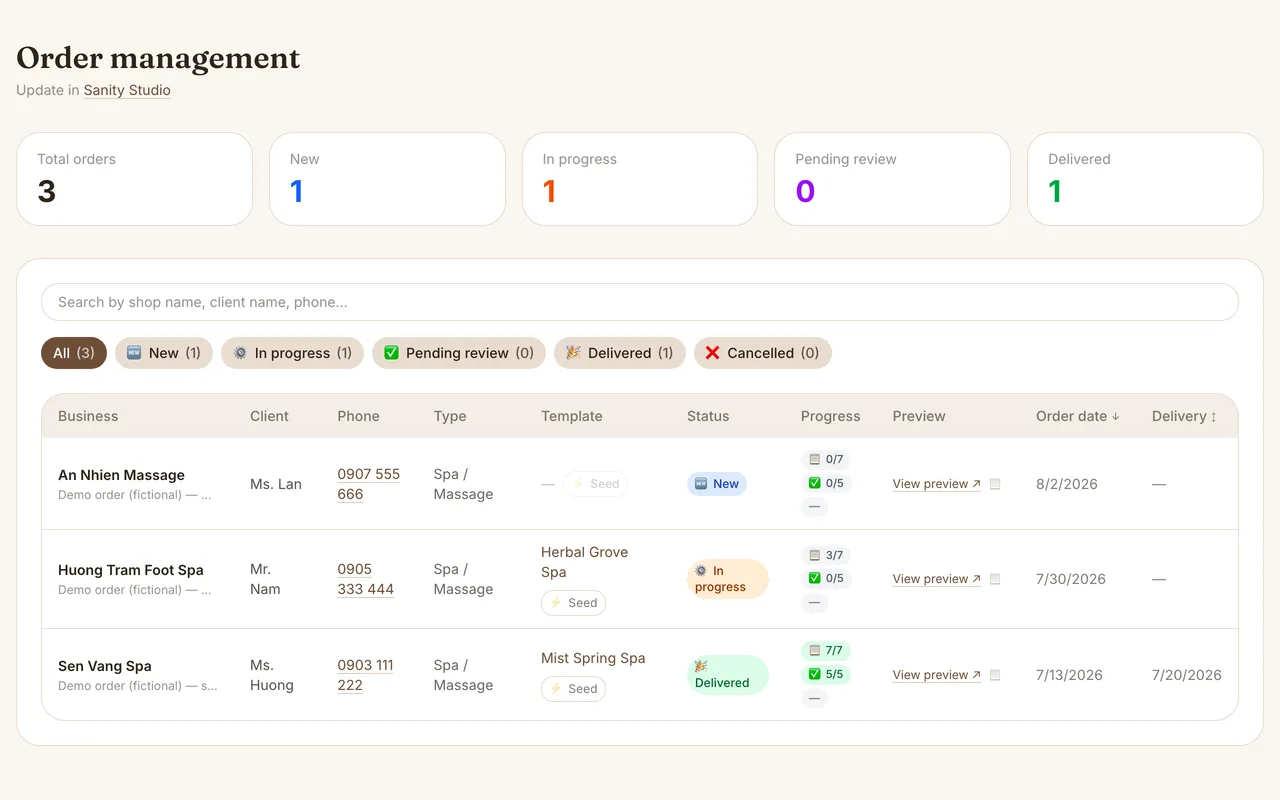
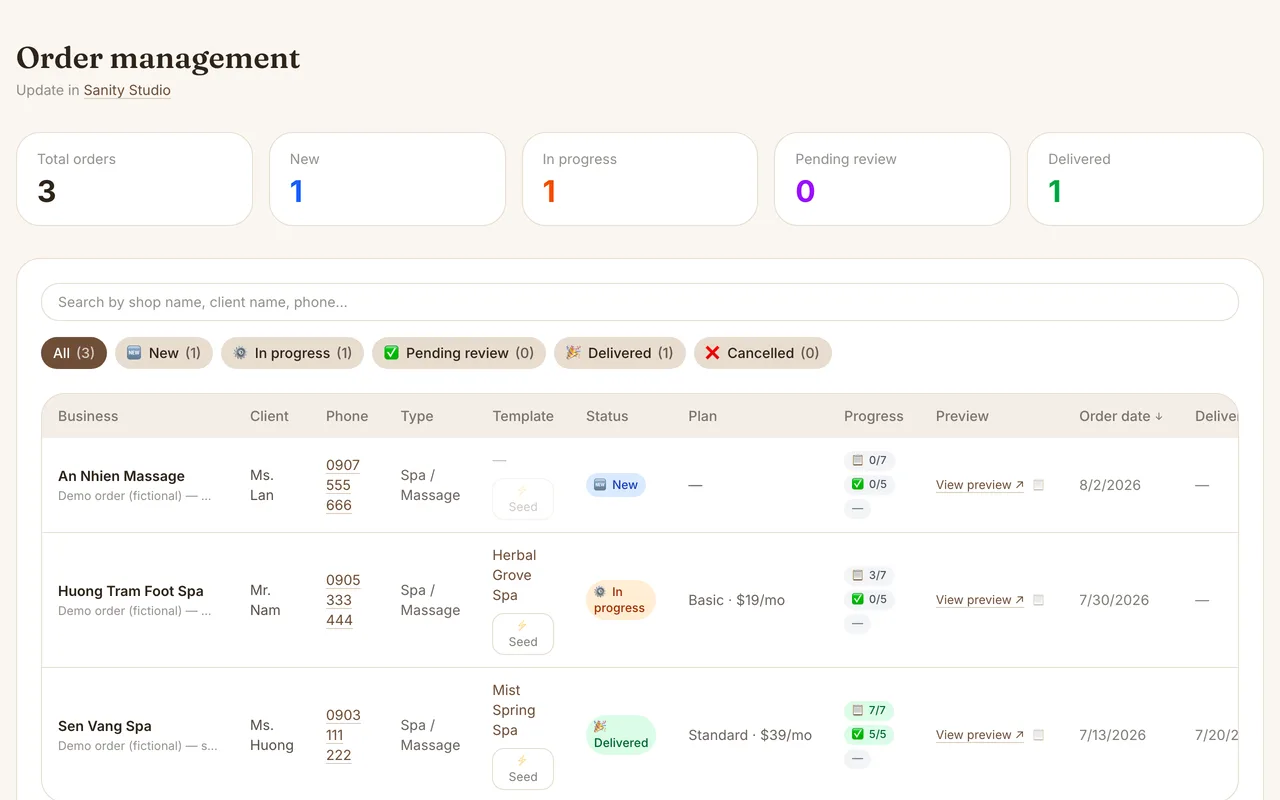
fix: the order form's plans were a third, different price list
The site sells three plans — basic $19, standard $39, pro $59. The
Sanity order schema offered two of its own: "Basic — 399k/month" and
"Premium — 699k/month". A different currency, a different number of
tiers, and a "Premium" that has never existed on the public site. Next
to it, setupFee was labelled in VND and described in terms of the same
two tiers.

Both now come from DEFAULT_PRICING_PLANS through
SERVICE_PLAN_OPTIONS, so the dropdown an operator picks from is
literally built from the list the homepage sells. The Site type's union
follows the plan keys.

servicePlan was also stored, projected by sitesQuery, and rendered
nowhere — the exact dead-field shape earlier audits removed. It is what
the client is billed, so the dashboard gets a Plan column rather than
losing the field.

The seeded demo order used "premium", a value that no longer exists;
it is on standard now. Also drops a comment left dangling in OrderList
when the duplicated industry label map was removed.

diff --git a/src/app/admin/orders/OrderList.tsx b/src/app/admin/orders/OrderList.tsx
@@ -2,6 +2,7 @@
 
 import { useState } from 'react'
 import { Site, OrderStatus, Industry, INDUSTRY_LABEL } from '@/types'
+import { SERVICE_PLAN_LABEL } from '@/lib/pricing'
 
 const STATUS_CONFIG: Record<OrderStatus, { label: string; color: string }> = {
   new:         { label: '🆕 New',           color: 'bg-blue-100 text-blue-800' },
@@ -10,9 +11,6 @@ const STATUS_CONFIG: Record<OrderStatus, { label: string; color: string }> = {
   delivered:   { label: '🎉 Delivered',    color: 'bg-green-100 text-green-800' },
   cancelled:   { label: '❌ Cancelled',    color: 'bg-red-100 text-red-800' },
 }
-
-// Labels come from the shared list so the admin table names a business type
-// exactly as the customer saw it in the order form. These two had drifted.
 
 const ALL_STATUSES = ['all', ...Object.keys(STATUS_CONFIG)] as const
 
@@ -193,7 +191,7 @@ export default function OrderList({ orders }: { orders: (Site & { previewSlug?: 
           <table className="w-full text-sm">
             <thead className="bg-[var(--color-brand-beige)]/50">
               <tr>
-                {['Business', 'Client', 'Phone', 'Type', 'Template', 'Status', 'Progress', 'Preview'].map((h) => (
+                {['Business', 'Client', 'Phone', 'Type', 'Template', 'Status', 'Plan', 'Progress', 'Preview'].map((h) => (
                   <th key={h} className="text-left px-4 py-3 font-medium text-[var(--color-brand-ink)]/60 whitespace-nowrap">{h}</th>
                 ))}
                 {(['orderDate', 'deliveryDate'] as const).map((field) => (
@@ -246,6 +244,11 @@ export default function OrderList({ orders }: { orders: (Site & { previewSlug?: 
                       <span className={`inline-block px-2 py-1 rounded-full text-xs font-medium ${status.color}`}>
                         {status.label}
                       </span>
+                    </td>
+                    {/* servicePlan was stored, queried, and shown nowhere. It
+                        is what the client is billed — worth a column. */}
+                    <td className="px-4 py-3 text-[var(--color-brand-ink)]/70 whitespace-nowrap">
+                      {o.servicePlan ? SERVICE_PLAN_LABEL[o.servicePlan] ?? o.servicePlan : '—'}
                     </td>
                     <td className="px-4 py-3">
                       <ProgressCell o={o} />

diff --git a/src/sanity/schemaTypes/site.ts b/src/sanity/schemaTypes/site.ts
@@ -1,6 +1,7 @@
 import { defineField, defineType } from 'sanity'
 import { sectionTypes } from './sections'
 import { INDUSTRY_SANITY_LIST } from '@/types'
+import { SERVICE_PLAN_OPTIONS } from '@/lib/pricing'
 import { AutoSeedSiteInput } from '@/sanity/components/AutoSeedSiteInput'
 import { ChecklistWithProgress } from '@/sanity/components/ChecklistWithProgress'
 import { RenewalDateInput } from '@/sanity/components/RenewalDateInput'
@@ -163,19 +164,18 @@ export const siteSchema = defineType({
       title: 'Service plan',
       type: 'string',
       group: 'workflow',
-      options: {
-        list: [
-          { title: 'Basic — 399k/month', value: 'basic' },
-          { title: 'Premium — 699k/month', value: 'premium' },
-        ],
-      },
+      // Derived from the plans the homepage sells, so the two cannot describe
+      // different products.
+      options: { list: SERVICE_PLAN_OPTIONS },
     }),
+    // Was "Setup fee collected (VND)", described in terms of a Basic/Premium
+    // split that the public pricing has never had. USD like everything else.
     defineField({
       name: 'setupFee',
-      title: 'Setup fee collected (VND)',
+      title: 'Setup fee collected (USD)',
       type: 'number',
       group: 'workflow',
-      description: 'Basic plan: 500k. Premium plan: 500k + actual domain cost.',
+      description: 'One-off charge, on top of the monthly plan.',
     }),
     defineField({
       name: 'intakeReceived',

diff --git a/src/lib/pricing.ts b/src/lib/pricing.ts
@@ -24,3 +24,22 @@ export function formatPrice(price: number): string {
 export function fromEntryPrice(): string {
   return `from ${formatPrice(entryPlanPrice())}`;
 }
+
+/**
+ * The plan dropdown on a client order, built from the same list the homepage
+ * sells. The Sanity schema used to hardcode its own two: "Basic — 399k/month"
+ * and "Premium — 699k/month" — a second currency and a plan tier that has not
+ * existed on the public site.
+ */
+export const SERVICE_PLAN_OPTIONS = DEFAULT_PRICING_PLANS.map((p) => ({
+  title: `${p.name[0].toUpperCase()}${p.name.slice(1)} — ${formatPrice(p.price)}/month`,
+  value: p._key,
+}));
+
+/** Labels keyed by value, for rendering a stored plan. */
+export const SERVICE_PLAN_LABEL: Record<string, string> = Object.fromEntries(
+  DEFAULT_PRICING_PLANS.map((p) => [
+    p._key,
+    `${p.name[0].toUpperCase()}${p.name.slice(1)} · ${formatPrice(p.price)}/mo`,
+  ])
+);

diff --git a/scripts/seed-demo-sites.ts b/scripts/seed-demo-sites.ts
@@ -108,7 +108,7 @@ const DEMO_SITES = [
     seoDescription: "Massage and body care in a quiet space. Book on Zalo.",
     isActive: true,
     renewalDate: RENEWAL,
-    servicePlan: "premium",
+    servicePlan: "standard",
     intakeReceived: ["logo", "photos", "services", "contact", "hours", "about", "reviews"],
     qaChecks: ["content", "images", "contact", "form", "mobile"],
     notes: "Demo order (fictional) — seeded by scripts/seed-demo-sites.ts.",

diff --git a/src/types/index.ts b/src/types/index.ts
@@ -325,7 +325,8 @@ export interface Site {
   domainStatus?: "none" | "setting_up" | "live";
   dnsNote?: string;
   isActive?: boolean;
-  servicePlan?: 'basic' | 'premium';
+  /** Keys of DEFAULT_PRICING_PLANS — see SERVICE_PLAN_OPTIONS in lib/pricing. */
+  servicePlan?: 'basic' | 'standard' | 'pro';
   setupFee?: number;
   renewalDate?: string;
   intakeReceived?: string[];
